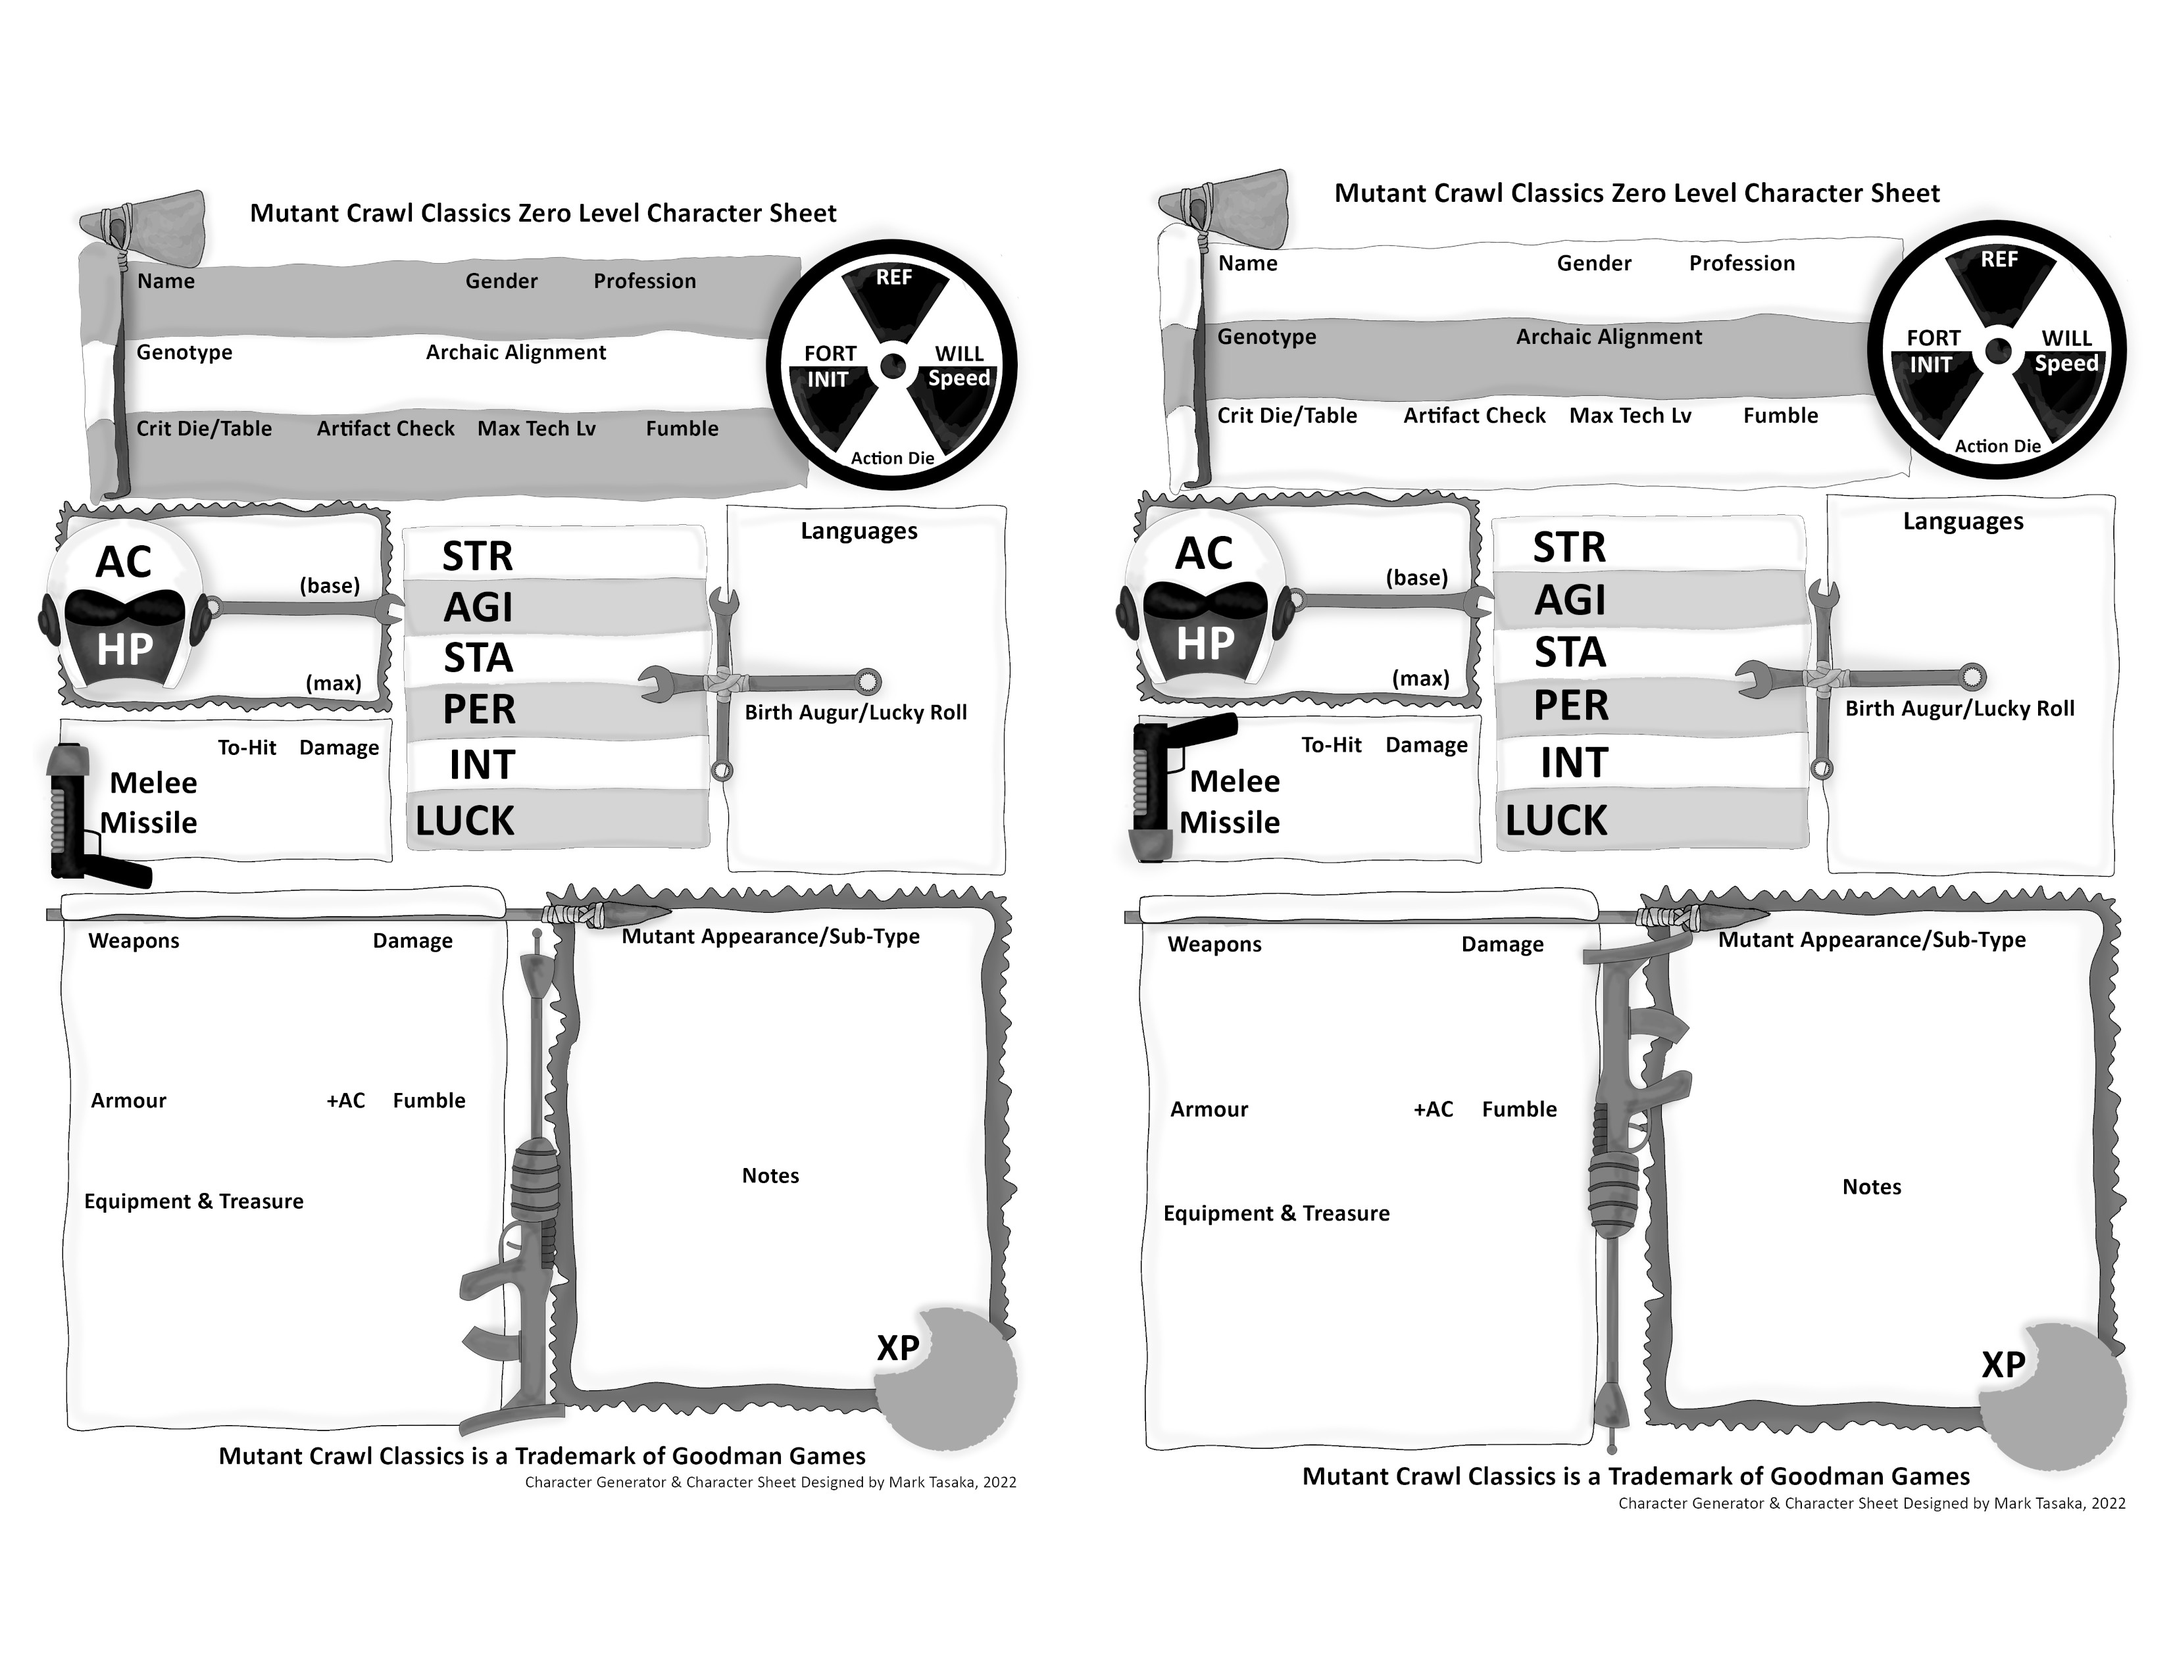
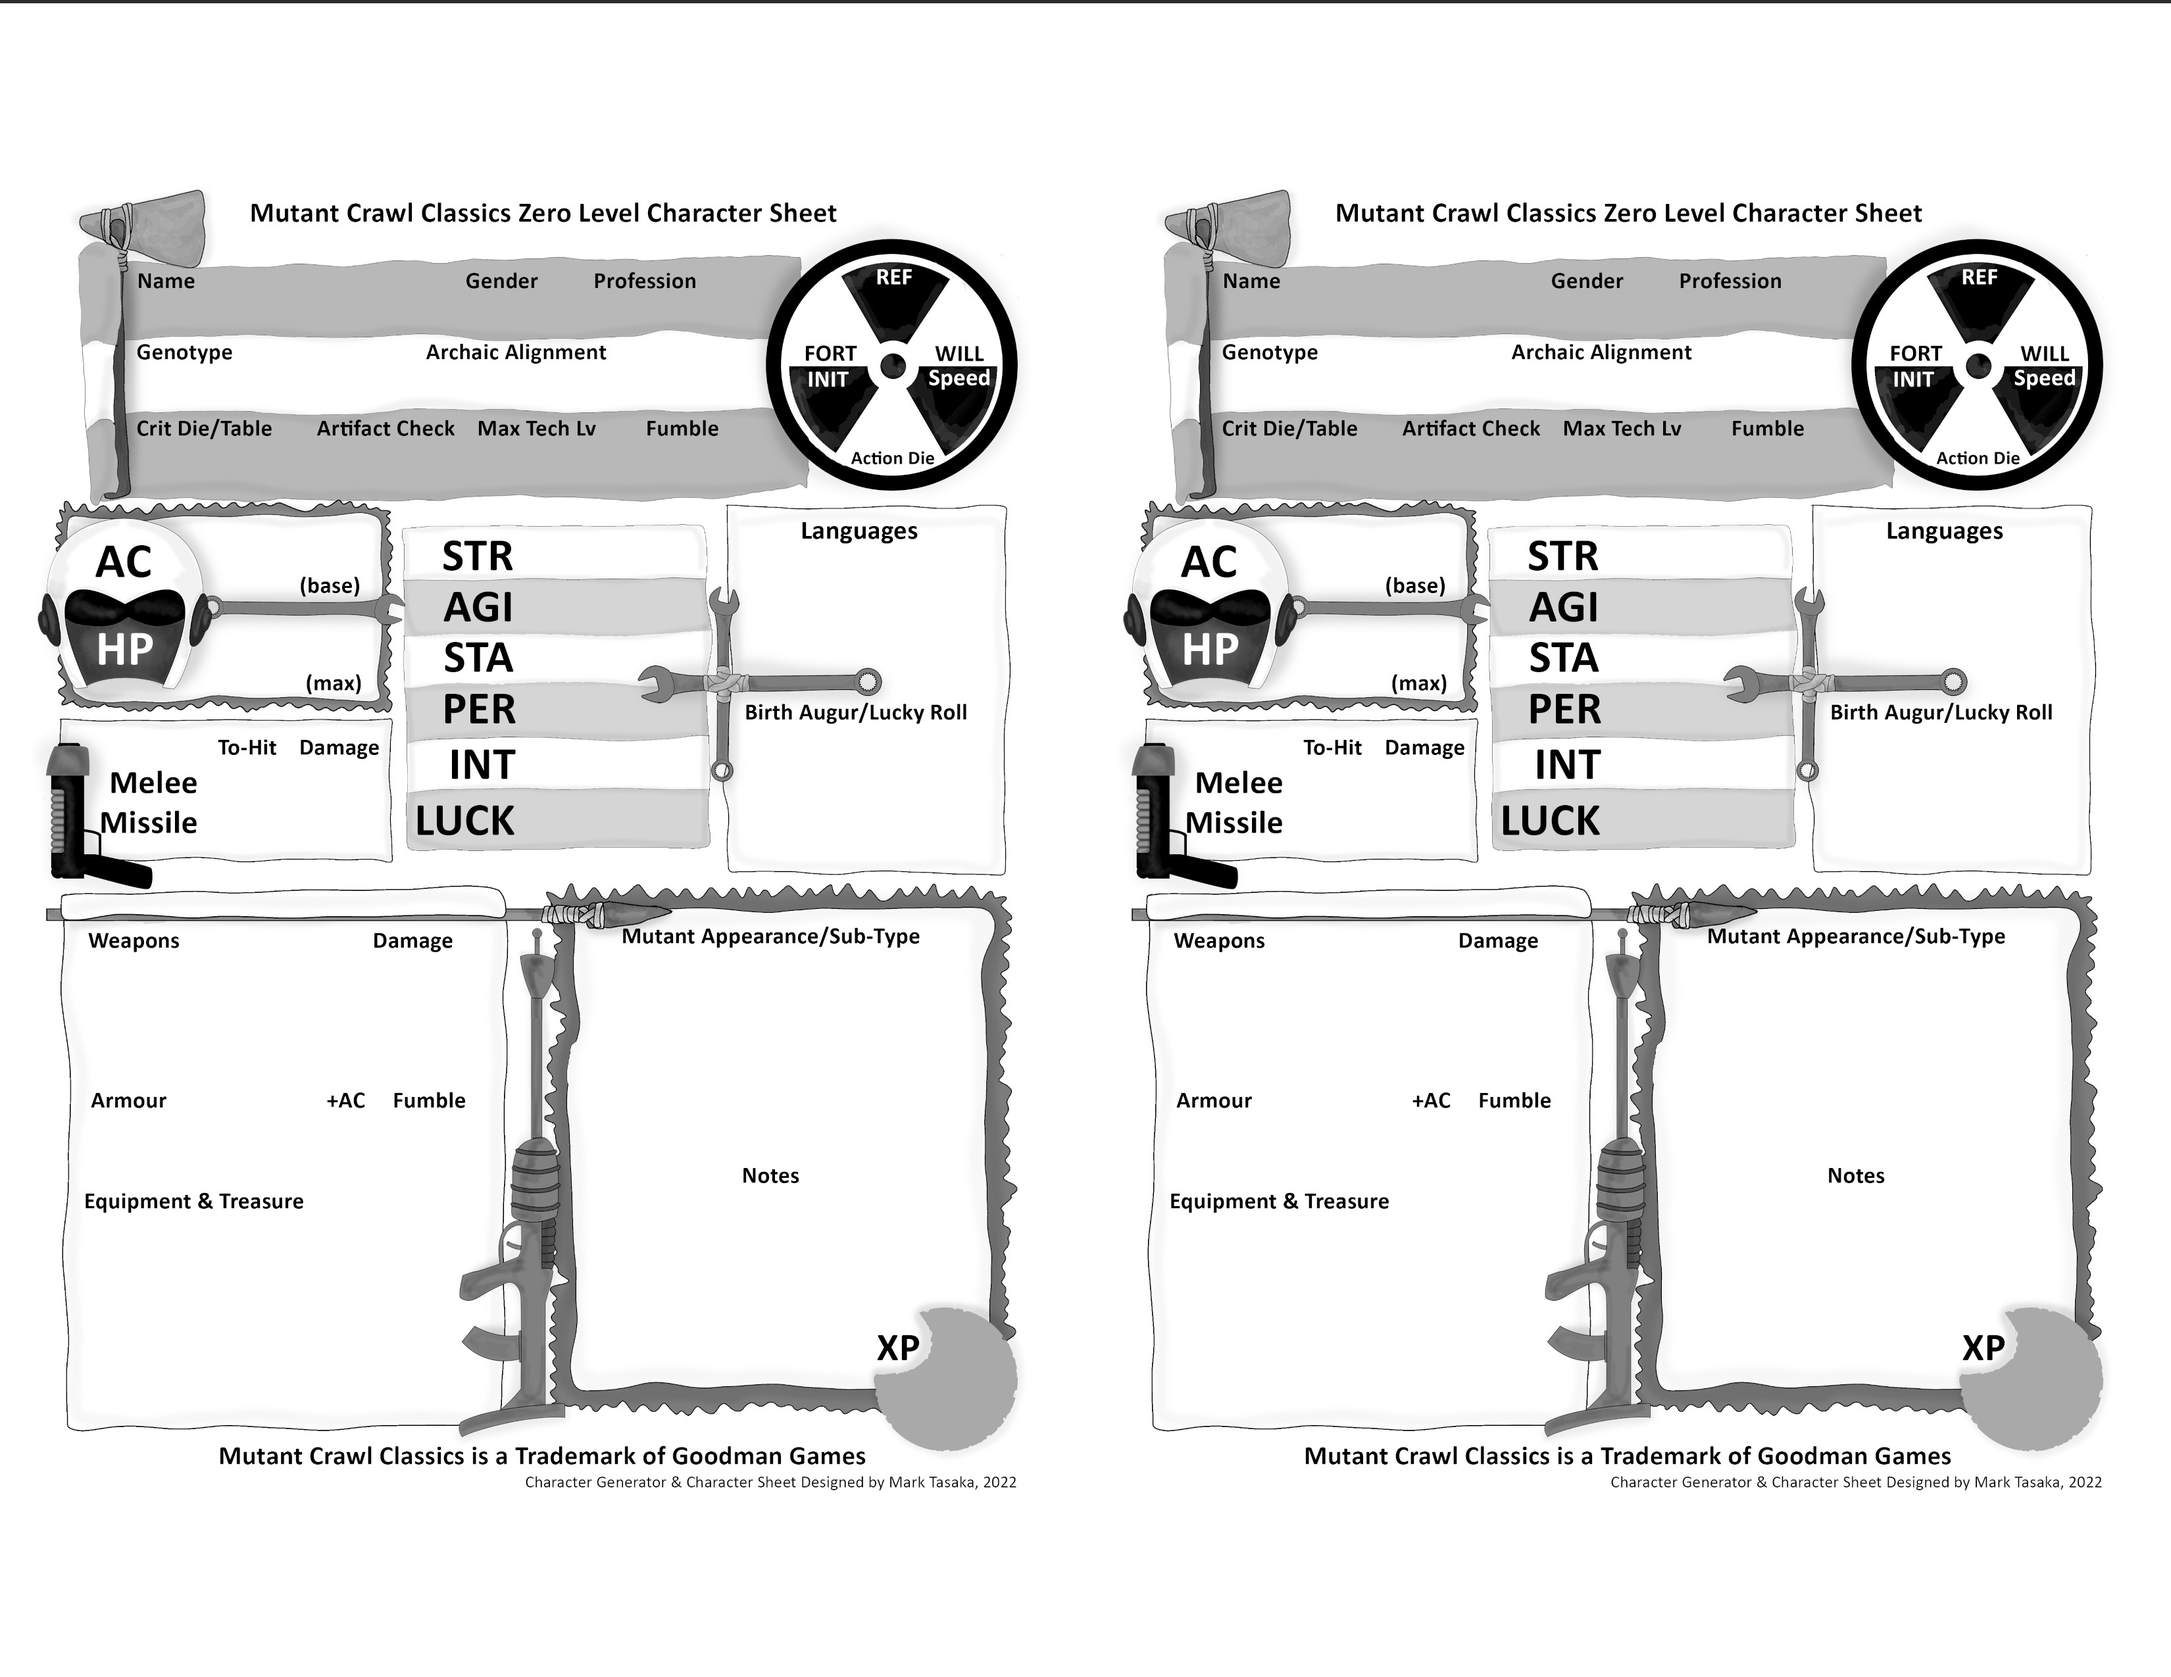
new landscape mcc zero lv character sheet added

diff --git a/src/character/utils/lv0MccGenerator.js b/src/character/utils/lv0MccGenerator.js
@@ -198,7 +198,7 @@ const landscapeStyles = StyleSheet.create({
   rightHalf: { top: '0%', left: '50%' },
 
   text: {
-    fontSize: 12,
+    fontSize: 11,
     color: 'black',
     fontWeight: 'bold',
   },
@@ -221,11 +221,11 @@ const landscapeStyles = StyleSheet.create({
     color: 'black',
   },
 
-  name:       { position: 'absolute', top: 97,  left: 40  },
-  gender:     { position: 'absolute', top: 97,  left: 200 },
+  name:       { position: 'absolute', top: 107,  left: 50  },
+  gender:     { position: 'absolute', top: 107,  left: 170 },
   genotype:   { position: 'absolute', top: 127,  left: 40  },
   alignment:  { position: 'absolute', top: 127, left: 40  },
-  occupation: { position: 'absolute', top: 155, left: 40  },
+  occupation: { position: 'absolute', top: 107, left: 220  },
   critDie:    { position: 'absolute', top: 127, left: 160 },
   fumble:     { position: 'absolute', top: 127, left: 230 },
   artifactCheck: { position: 'absolute', top: 127,  left: 70 },
